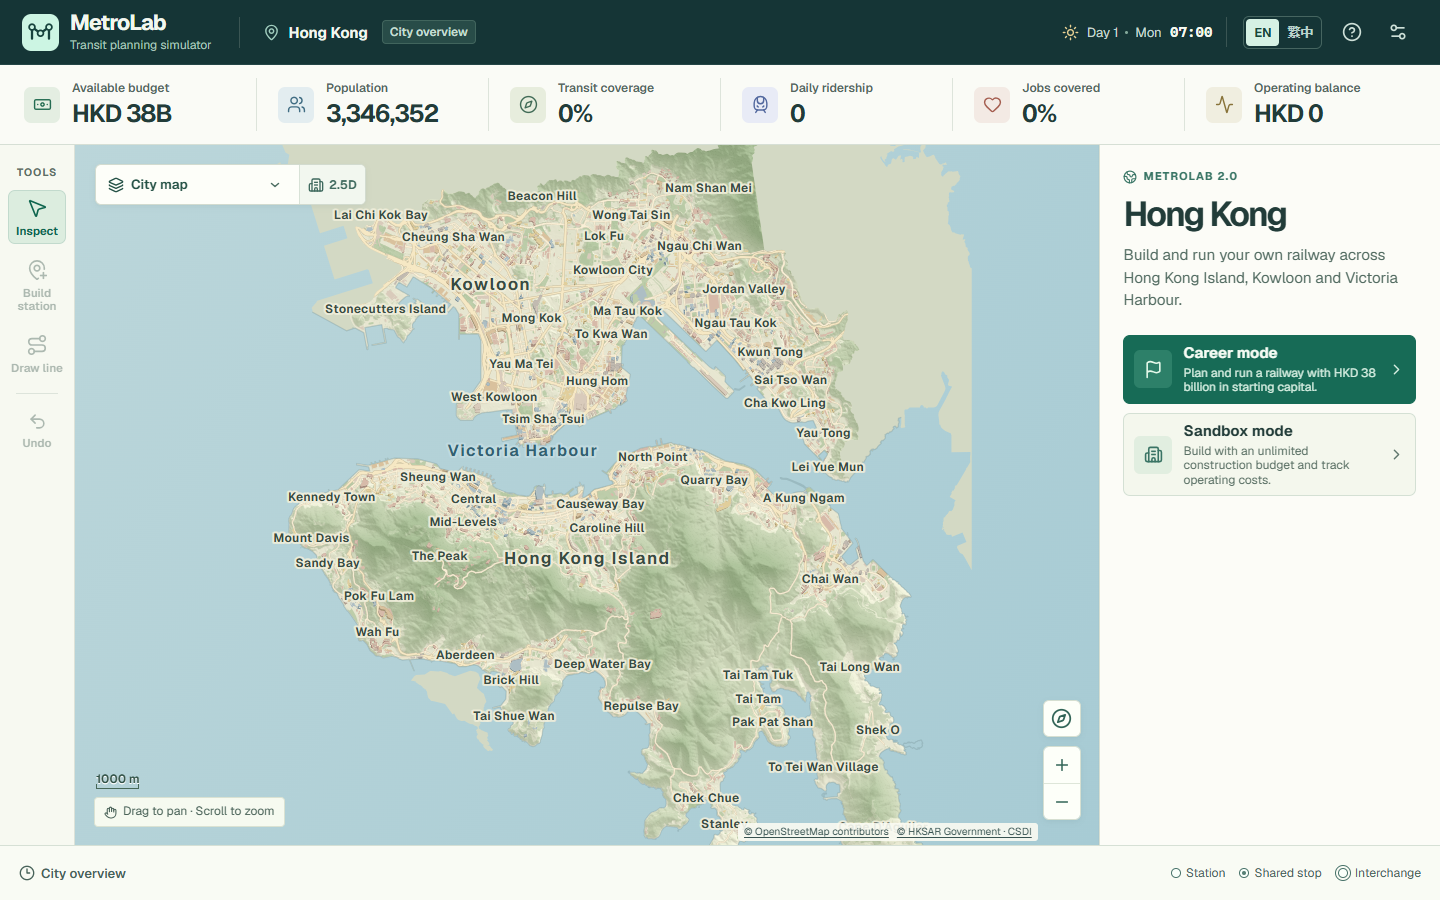
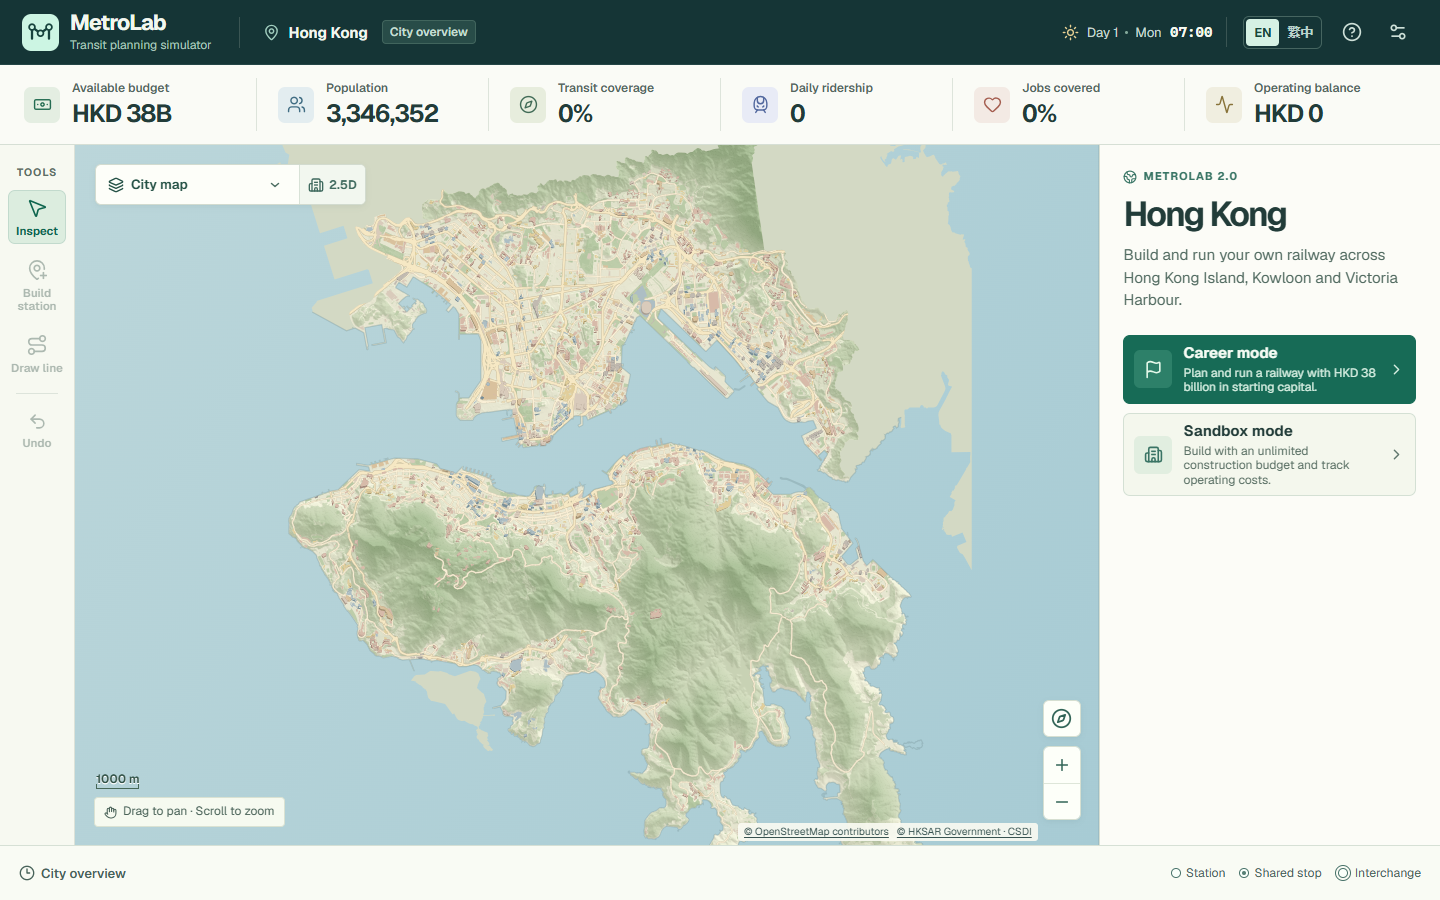
fix: show station names while drawing routes

diff --git a/src/ui/CityMap.tsx b/src/ui/CityMap.tsx
@@ -6,9 +6,10 @@ import { getCity, districtAt, minuteOfDay, populationOf } from '../engine/city.t
 import { relocationQuote } from '../engine/actions.ts'
 import { allTrack, openEndOf, sectionKey, trackHits } from '../engine/alignment.ts'
 import { canAfford, HKD } from '../engine/economy.ts'
-import { clamp, distance } from '../engine/geometry.ts'
+import { clamp, distance, isWater } from '../engine/geometry.ts'
+import { surfaceAt } from '../engine/hongKong.ts'
 import { stationCapacity, stationPreview, stationRadius, waitingAt } from '../engine/network.ts'
-import { quoteInsertion, quoteLine, selectableInsertions } from '../engine/planning.ts'
+import { quoteInsertion, quoteLine, roundPoint, selectableInsertions } from '../engine/planning.ts'
 import { layers } from '../engine/save.ts'
 import { curveSpeedKmh, ENGINEERING, minimumRadius, pieceTangent, radiusStatus, tangentsAgree, trackColors, trackLength, trackPath, unitsToMeters } from '../engine/track.ts'
 import { trainPosition } from '../engine/trains.ts'
@@ -237,6 +238,17 @@ export function CityMap({ game, reach, layer: savedLayer, setLayer, flat, toggle
   }
   const hoverQuote = hoverDraft ? quoteLine(game, draftDesign(game, hoverDraft), oldDraftLine) : undefined
   const drawnQuote = hoverQuote ?? draftQuote
+  const plannedStations = draftQuote?.newStations ?? []
+  const candidatePosition = draft && hover && !panning && !draft.control && !hoveredStation
+    ? roundPoint(hoverDraft?.proposed[ghostId] ?? hover.world) : undefined
+  const candidateOnLand = candidatePosition && (hongKong ? surfaceAt(candidatePosition) === 'land' :
+    candidatePosition.x >= 14 && candidatePosition.x <= city.width - 14 && candidatePosition.y >= 14 &&
+    candidatePosition.y <= city.height - 14 && !isWater(city, candidatePosition, 6))
+  let candidateName: string | undefined
+  if (candidatePosition && candidateOnLand && !plannedStations.some((station) => distance(station.position, candidatePosition) * scale < 11)) {
+    const candidate = hoverQuote?.newStations.find((station) => station.id === ghostId)
+    candidateName = candidate ? stationLabel(game, candidate, t) : stationNameAt(game, candidatePosition, t, game.stations.concat(plannedStations))
+  }
   const engineeringHit = hover && layer === 'engineering' && tool === 'select'
     ? trackHits(game.lines, hover.world, 12 / scale)[0] : undefined
   const inspectionMethod = engineeringHit?.section.method ?? engineeringHit?.section.pieces[0].method
@@ -250,15 +262,13 @@ export function CityMap({ game, reach, layer: savedLayer, setLayer, flat, toggle
   const stationLabels: { left: number; right: number; top: number; bottom: number }[] = []
 
   return <div className={'city-map tool-' + tool + (panning ? ' is-panning' : '')} ref={viewport}>
-    {hongKong && <HongKongMap left={left} top={top} scale={scale} width={size.width} height={size.height} flat={flat}
-      zh={locale === 'zh-HK'} stations={game.stations}/>}
+    {hongKong && <HongKongMap left={left} top={top} scale={scale} width={size.width} height={size.height} flat={flat}/>}
     <svg ref={svg} className="city-map-svg" data-testid="city-map" aria-label={t('map.name')} role="group" tabIndex={0}
       viewBox={[left, top, size.width / scale, size.height / scale].join(' ')}
       onPointerDown={pointerDown} onPointerMove={pointerMove} onPointerUp={pointerUp}
       onPointerCancel={(event) => pointerUp(event, true)} onPointerLeave={() => setHover(undefined)}
       onContextMenu={(event) => event.preventDefault()}>
-      {!hongKong && <BaseMap city={city} development={game.growth} detail={roadVisible} labels={scale >= 0.36}
-        flat={flat} landmarks={scale >= 1.03} t={t} />}
+      {!hongKong && <BaseMap city={city} development={game.growth} detail={roadVisible} flat={flat}/>}
       {night > 0 && <rect x={left} y={top} width={size.width / scale} height={size.height / scale} fill="#344c6b" opacity={night} pointerEvents="none" />}
       {hongKong ? <HongKongAnalysis layer={layer} hour={Math.floor(game.minute / 60)} stations={game.stations} served={reach.served}
         zone={selected?.type === 'district' ? selected.id : undefined} station={selectedStation}
@@ -331,10 +341,15 @@ export function CityMap({ game, reach, layer: savedLayer, setLayer, flat, toggle
               fill="#fffdf6" stroke={draft.color} strokeWidth="1.7" vectorEffect="non-scaling-stroke"/>)}
           {draft.stops.map((id, index) => {
             const point = draft.proposed[id]
+            const station = plannedStations.find((station) => station.id === id)
             return point && <g key={id} data-testid="proposed-station" transform={'translate(' + point.x + ' ' + point.y + ')'}>
               <circle r={markerSize} fill="#fffff8" stroke={draft.color} strokeWidth="2.3" vectorEffect="non-scaling-stroke"/>
               <text y={0.55 / scale} textAnchor="middle" dominantBaseline="central" fontSize={9.5 / scale}
                 fill={draft.color} className="station-order">{index + 1}</text>
+              <text y={-markerSize - 9 / scale} textAnchor="middle" className="station-name" fontSize={12 / scale}
+                vectorEffect="non-scaling-stroke" data-testid="draft-station-name">
+                {station ? stationLabel(game, station, t) : stationNameAt(game, point, t)}
+              </text>
             </g>
           })}
           {hoverDraft?.proposed[ghostId] && <circle cx={hoverDraft.proposed[ghostId].x} cy={hoverDraft.proposed[ghostId].y}
@@ -357,7 +372,7 @@ export function CityMap({ game, reach, layer: savedLayer, setLayer, flat, toggle
         const width = Math.min(140, 22 + label.length * 6.3) / scale
         const box = { left: x - width / 2, right: x + width / 2, top: y - 28 / scale, bottom: y - 8 / scale }
         const clear = !stationLabels.some((item) => item.left < box.right && item.right > box.left && item.top < box.bottom && item.bottom > box.top)
-        const visible = active || hoveredStation?.id === station.id || (!draft &&
+        const visible = active || hoveredStation?.id === station.id || order >= 0 || (!draft &&
           (hongKong ? clear && (scale > .94 || game.stations.length < 22) : scale > .94))
         if (visible) stationLabels.push(box)
         const flow = game.stationActivity[station.id]
@@ -392,6 +407,11 @@ export function CityMap({ game, reach, layer: savedLayer, setLayer, flat, toggle
         {!hongKong && <circle r={preview.radius} className={'coverage-ring ' + (previewError ? 'invalid' : 'preview')} vectorEffect="non-scaling-stroke" />}
         <circle r={markerSize} className={previewError ? 'ghost-station invalid' : 'ghost-station'} vectorEffect="non-scaling-stroke" />
       </g>}
+      {hover && candidatePosition && candidateName && <text x={candidatePosition.x}
+        y={candidatePosition.y + (hover.screen.y < 36 ? 27 : -16) / scale}
+        textAnchor={hover.screen.x < 80 ? 'start' : hover.screen.x > size.width - 80 ? 'end' : 'middle'}
+        pointerEvents="none" className="station-name" fontSize={12 / scale} vectorEffect="non-scaling-stroke"
+        data-testid="draft-station-preview-name">{candidateName}</text>}
     </svg>
 
     <div className="map-layer-control">

diff --git a/src/ui/HongKongMap.tsx b/src/ui/HongKongMap.tsx
@@ -1,7 +1,6 @@
 import { memo, useEffect, useRef, useState } from 'react'
 import { hongKong } from '../engine/hongKong.ts'
-import type { Place, Polygon, Ring, Road } from '../engine/hongKong.ts'
-import type { Station } from '../engine/types.ts'
+import type { Polygon, Ring, Road } from '../engine/hongKong.ts'
 
 const files = import.meta.env.BASE_URL + 'data/hong-kong/'
 const map = hongKong.map
@@ -124,53 +123,8 @@ function paintBuilding(context: CanvasRenderingContext2D, building: Building, sc
   context.translate(-right, lift)
 }
 
-const fixedLabels = [
-  { x: 751, y: 799, en: 'Victoria Harbour', zh: '維多利亞港', kind: -2 },
-  { x: 675, y: 409, en: 'Kowloon', zh: '九龍', kind: -1 },
-  { x: 901, y: 1050, en: 'Hong Kong Island', zh: '香港島', kind: -1 },
-]
-const primaryLabels = new Set(['Central', 'Kennedy Town', 'Tsim Sha Tsui', 'Stanley', 'Kowloon City', 'Mong Kok', 'Wong Tai Sin',
-  'Kwun Tong', 'Chai Wan', 'Aberdeen', 'North Point', 'Causeway Bay'])
-
-function paintLabels(context: CanvasRenderingContext2D, stationList: Station[], scale: number,
-  left: number, top: number, width: number, height: number, zh: boolean) {
-  const placed: Bounds[] = stationList.map(({ position, names }) => {
-    const x = (position.x - left) * scale, y = (position.y - top) * scale
-    const text = zh ? names?.zh : names?.en
-    const edge = Math.max(34, (text?.length ?? 0) * (zh ? 6.7 : 3.5) + 5)
-    return { left: x - edge, right: x + edge, top: y - 32, bottom: y + 10 }
-  })
-  const names = new Set<string>()
-  const maxKind = scale < .34 ? 0 : scale < .74 ? 1 : scale < 1.7 ? 3 : 5
-  const priority = (place: Place) => place.kind + (place.source === 0 ? .2 : .6) - (primaryLabels.has(place.en) ? 2 : 0)
-  const list = [...fixedLabels, ...hongKong.places.filter((place) => place.kind <= maxKind).sort((a, b) => priority(a) - priority(b))]
-  context.textAlign = 'center'
-  context.textBaseline = 'middle'
-  for (const place of list) {
-    const x = (place.x - left) * scale, y = (place.y - top) * scale
-    const name = zh ? place.zh : place.en
-    if (x < 12 || x > width - 12 || y < 17 || y > height - 16 || names.has(name)) continue
-    if (place.kind === -1 && scale > 1.1) continue
-    if (place.kind < 0 && scale < .28 && place.kind !== -2) continue
-    const size = place.kind < 0 ? (place.kind === -2 ? 16 : 17) : place.kind < 2 ? 12 : 10
-    context.font = (place.kind < 2 ? '650 ' : '500 ') + size + 'px Geist Variable, system-ui, Microsoft JhengHei, sans-serif'
-    context.letterSpacing = place.kind < 0 ? '1.5px' : place.kind < 2 ? '.35px' : '0px'
-    const edge = context.measureText(name).width / 2 + (place.kind < 0 ? 10 : 5)
-    const rect = { left: x - edge, right: x + edge, top: y - size * .83, bottom: y + size * .83 }
-    if (placed.some((area) => rect.left < area.right && rect.right > area.left && rect.top < area.bottom && rect.bottom > area.top)) continue
-    placed.push(rect)
-    names.add(name)
-    context.lineJoin = 'round'
-    context.strokeStyle = place.kind === -2 ? '#c0dae0' : '#eeeddae6'
-    context.lineWidth = place.kind < 2 ? 3.7 : 2.5
-    context.strokeText(name, x, y)
-    context.fillStyle = place.kind === -2 ? '#315f72' : place.kind < 2 ? '#384b42' : '#535d53'
-    context.fillText(name, x, y)
-  }
-}
-
-export const HongKongMap = memo(function HongKongMap({ left, top, scale, width, height, flat, zh, stations }: {
-  left: number; top: number; scale: number; width: number; height: number; flat: boolean; zh: boolean; stations: Station[]
+export const HongKongMap = memo(function HongKongMap({ left, top, scale, width, height, flat }: {
+  left: number; top: number; scale: number; width: number; height: number; flat: boolean
 }) {
   const ref = useRef<HTMLCanvasElement>(null)
   const relief = useRef<HTMLImageElement | undefined>(undefined)
@@ -246,8 +200,6 @@ export const HongKongMap = memo(function HongKongMap({ left, top, scale, width, 
       context.strokeStyle = '#7c9ca066'
       context.lineWidth = 1.23 / scale
       context.stroke(paths.coast)
-      context.setTransform(ratio, 0, 0, ratio, 0, 0)
-      paintLabels(context, stations, scale, left, top, width, height, zh)
     })
     return () => cancelAnimationFrame(frame)
   })

diff --git a/src/ui/BaseMap.tsx b/src/ui/BaseMap.tsx
@@ -1,5 +1,4 @@
 import { memo } from 'react'
-import type { TFunction } from 'i18next'
 import type { City, Layer, Zone } from '../engine/types.ts'
 import { backgroundGreens, cartography, lake, mainRoads, parkLand, parkTrails } from './cartography.ts'
 import { BuildingLayer } from './BuildingLayer.tsx'
@@ -18,13 +17,10 @@ interface Props {
   city: City
   development: Record<string, number>
   detail: boolean
-  labels: boolean
   flat: boolean
-  landmarks: boolean
-  t: TFunction
 }
 
-export const BaseMap = memo(function BaseMap({ city, development, detail, labels, flat, landmarks, t }: Props) {
+export const BaseMap = memo(function BaseMap({ city, development, detail, flat }: Props) {
   const map = cartography(city)
   return <g className="base-map" pointerEvents="none">
     <defs>
@@ -66,16 +62,7 @@ export const BaseMap = memo(function BaseMap({ city, development, detail, labels
         <g stroke="#b5b6a8" strokeWidth="10">{map.bridges.map((path, i) => <path key={i} d={path} />)}</g>
         <g stroke="#fffbef" strokeWidth="6.8">{map.bridges.map((path, i) => <path key={i} d={path} />)}</g>
       </g>
-      <BuildingLayer city={city} development={development} detail={detail} flat={flat} landmarks={landmarks} t={t}/>
-      <text x="910" y="677" textAnchor="middle" transform="rotate(-74 910 677)" className="river-label">{t('map.river')}</text>
-      <text x="1035" y="113" textAnchor="middle" transform="rotate(-41 1035 113)" className="river-label secondary">{t('map.river')}</text>
-      {labels && city.districts.map((area) => {
-        const point = area.label ?? area.center
-        return <text key={area.id} x={point.x} y={point.y} textAnchor="middle"
-          className={'district-label' + (development[area.id] ? '' : ' future')}>
-          {t('district.' + area.id)}
-        </text>
-      })}
+      <BuildingLayer city={city} development={development} detail={detail} flat={flat}/>
     </g>
   </g>
 })

diff --git a/src/style.css b/src/style.css
@@ -155,21 +155,6 @@ a { color: inherit; }
 .map-station { cursor: pointer; }
 .tool-station .map-station, .tool-move .map-station { cursor: crosshair; }
 .map-station:focus-visible { filter: drop-shadow(0 0 4px #1b9479); outline: none; }
-.district-label {
-  fill: #526158;
-  font-size: 15px;
-  font-weight: 690;
-  letter-spacing: 1.55px;
-  text-transform: uppercase;
-  paint-order: stroke;
-  stroke: #f1f0e6;
-  stroke-width: 3.6px;
-  stroke-linejoin: round;
-}
-.district-label.future { opacity: .68; }
-:lang(zh-HK) .district-label { letter-spacing: 1.7px; font-weight: 700; }
-.river-label { fill: #427683; font-size: 15px; font-weight: 580; letter-spacing: 3px; text-transform: uppercase; }
-.river-label.secondary { font-size: 11.5px; fill: #59838e; }
 .station-name { fill: #214944; font-weight: 700; stroke: #fbfbf5; stroke-width: 3px; stroke-linejoin: round; paint-order: stroke; }
 .station-order { font-weight: 760; }
 .train-dot { transition: transform 120ms linear; }
@@ -611,8 +596,6 @@ kbd { font-family: var(--mono); font-size: .76rem; border-radius: 4px; border: 1
   border: 0; border-left: 1px solid #d8e2d7; border-radius: 0 5px 5px 0;
   color: #3e695d; background: #f2f7ef; padding: 0 8px; font-size: .77rem; font-weight: 630; }
 .view-switch:hover { background: #e4f0e5; }
-.landmark-label { fill: #355854; font-size: 10.9px; letter-spacing: .025em; font-weight: 650;
-  paint-order: stroke; stroke: #f6f4e8; stroke-width: 2.1px; stroke-linejoin: round; }
 
 @media (max-width: 1100px) {
   .draw-controls { right: 58px; left: 11px; }

diff --git a/src/ui/BuildingLayer.tsx b/src/ui/BuildingLayer.tsx
@@ -1,5 +1,4 @@
 import { memo, useMemo } from 'react'
-import type { TFunction } from 'i18next'
 import { cityscape } from '../engine/cityscape.ts'
 import type { City } from '../engine/types.ts'
 import { buildingPaint } from './cityRendering.ts'
@@ -9,11 +8,9 @@ interface Props {
   development: Record<string, number>
   detail: boolean
   flat: boolean
-  landmarks: boolean
-  t: TFunction
 }
 
-export const BuildingLayer = memo(function BuildingLayer({ city, development, detail, flat, landmarks, t }: Props) {
+export const BuildingLayer = memo(function BuildingLayer({ city, development, detail, flat }: Props) {
   const paint = useMemo(() => buildingPaint(city, development, detail, flat), [city, development, detail, flat])
   const locations = cityscape(city).landmarks.filter((place) => development[place.district] > 0)
   return <g data-testid={flat ? 'flat-cityscape' : 'raised-cityscape'} pointerEvents="none">
@@ -30,7 +27,5 @@ export const BuildingLayer = memo(function BuildingLayer({ city, development, de
       }
       return <path key={index} d={path} fill={color} stroke={pass === 'roof' ? '#eff0e7' : 'none'} strokeWidth="0.35"/>
     })}
-    {landmarks && locations.filter((place) => place.type !== 'street').map((place) => <text key={place.id}
-      x={place.point.x + 9} y={place.point.y + 7} className="landmark-label">{t('landmark.' + place.id)}</text>)}
   </g>
 })

diff --git a/src/ui/format.ts b/src/ui/format.ts
@@ -39,8 +39,8 @@ function stationPlace(game: GameState, position: Point) {
 
 const nameCache = new WeakMap<Station[], { growth: GameState['growth']; places: Map<string, ReturnType<typeof stationPlace>> }>()
 
-export function stationNameAt(game: GameState, position: Point, t: TFunction) {
-  if (game.hongKong) return localizedName(hongKongName(position, game.stations), t)
+export function stationNameAt(game: GameState, position: Point, t: TFunction, stations = game.stations) {
+  if (game.hongKong) return localizedName(hongKongName(position, stations), t)
   return t(stationPlace(game, position).key)
 }
 

diff --git a/README.md b/README.md
@@ -11,7 +11,7 @@ MetroLab is a browser-based railway planning and operations game set on Hong Kon
 ## Build and operate
 
 1. Start **Career** with HKD 38 billion or **Sandbox** with unlimited construction funding. Explore the city map and the population, employment and travel demand layers. Select a statistical area to see the modelled trips it generates.
-2. Choose **Draw line**. Ordinary clicks add alignment points. Shift-click or use the station button in the planning dock to add an explicit stop. You can confirm track first, then add stations later. Start from an eligible existing terminal to extend its line.
+2. Choose **Draw line**. Ordinary clicks add alignment points. Shift-click or use the station button in the planning dock to add an explicit stop. The map previews a station name at the cursor and labels each added stop. You can confirm track first, then add stations later. Start from an eligible existing terminal to extend its line.
 3. Select underground, elevated or at-grade construction. Underground construction can cross Victoria Harbour as a marine tunnel. The preview gives alignment length, engineering constraints and remaining budget. The line editor shows the cost by method, site works, marine tunnel and station works. Confirm the plan to spend the quoted amount.
 4. Choose **Build station** for a standalone station or to insert a stop on built track. Select the participating lines where alignments overlap. Stations receive editable Chinese and English names from their surroundings. Use the inspector to edit alignments, extend or remove track, or relocate stations.
 5. Buy trains and set the dispatch interval and fare. Run the clock, then use the operating dashboard and passenger-flow map to check service, crowding and the daily balance. Each completed journey earns its fare. Active service, trains, tracks and stations introduce operating costs.

diff --git a/docs/HONG-KONG-DATA.md b/docs/HONG-KONG-DATA.md
@@ -44,4 +44,4 @@ python -m pip install -r tools/requirements-hong-kong.txt
 python tools/build_hong_kong.py --cache ../metrolab-hong-kong-sources
 ```
 
-The builder reads the downloaded ZIP, GeoJSON, PBF and PDF files. It projects geometry to Hong Kong 1980 Grid, EPSG:2326. World units are 10 projected metres. It records the model in [`model.json`](../public/data/hong-kong/model.json), samples the 5 m source terrain to 40 m for engineering, and produces a 15 m shaded relief and 3 km vector tiles for the visible map. Geographic features outside the scenario appear as map context. Levels of detail limit the roads, footprints and labels drawn at each scale. The browser runs Hong Kong passenger simulation in a module worker during normal play.
+The builder reads the downloaded ZIP, GeoJSON, PBF and PDF files. It projects geometry to Hong Kong 1980 Grid, EPSG:2326. World units are 10 projected metres. It records the model in [`model.json`](../public/data/hong-kong/model.json), samples the 5 m source terrain to 40 m for engineering, and produces a 15 m shaded relief and 3 km vector tiles for the visible map. Geographic features outside the scenario appear as map context. Levels of detail limit the roads and footprints drawn at each scale. The game uses geographic names for station naming and district details. The browser runs Hong Kong passenger simulation in a module worker during normal play.
